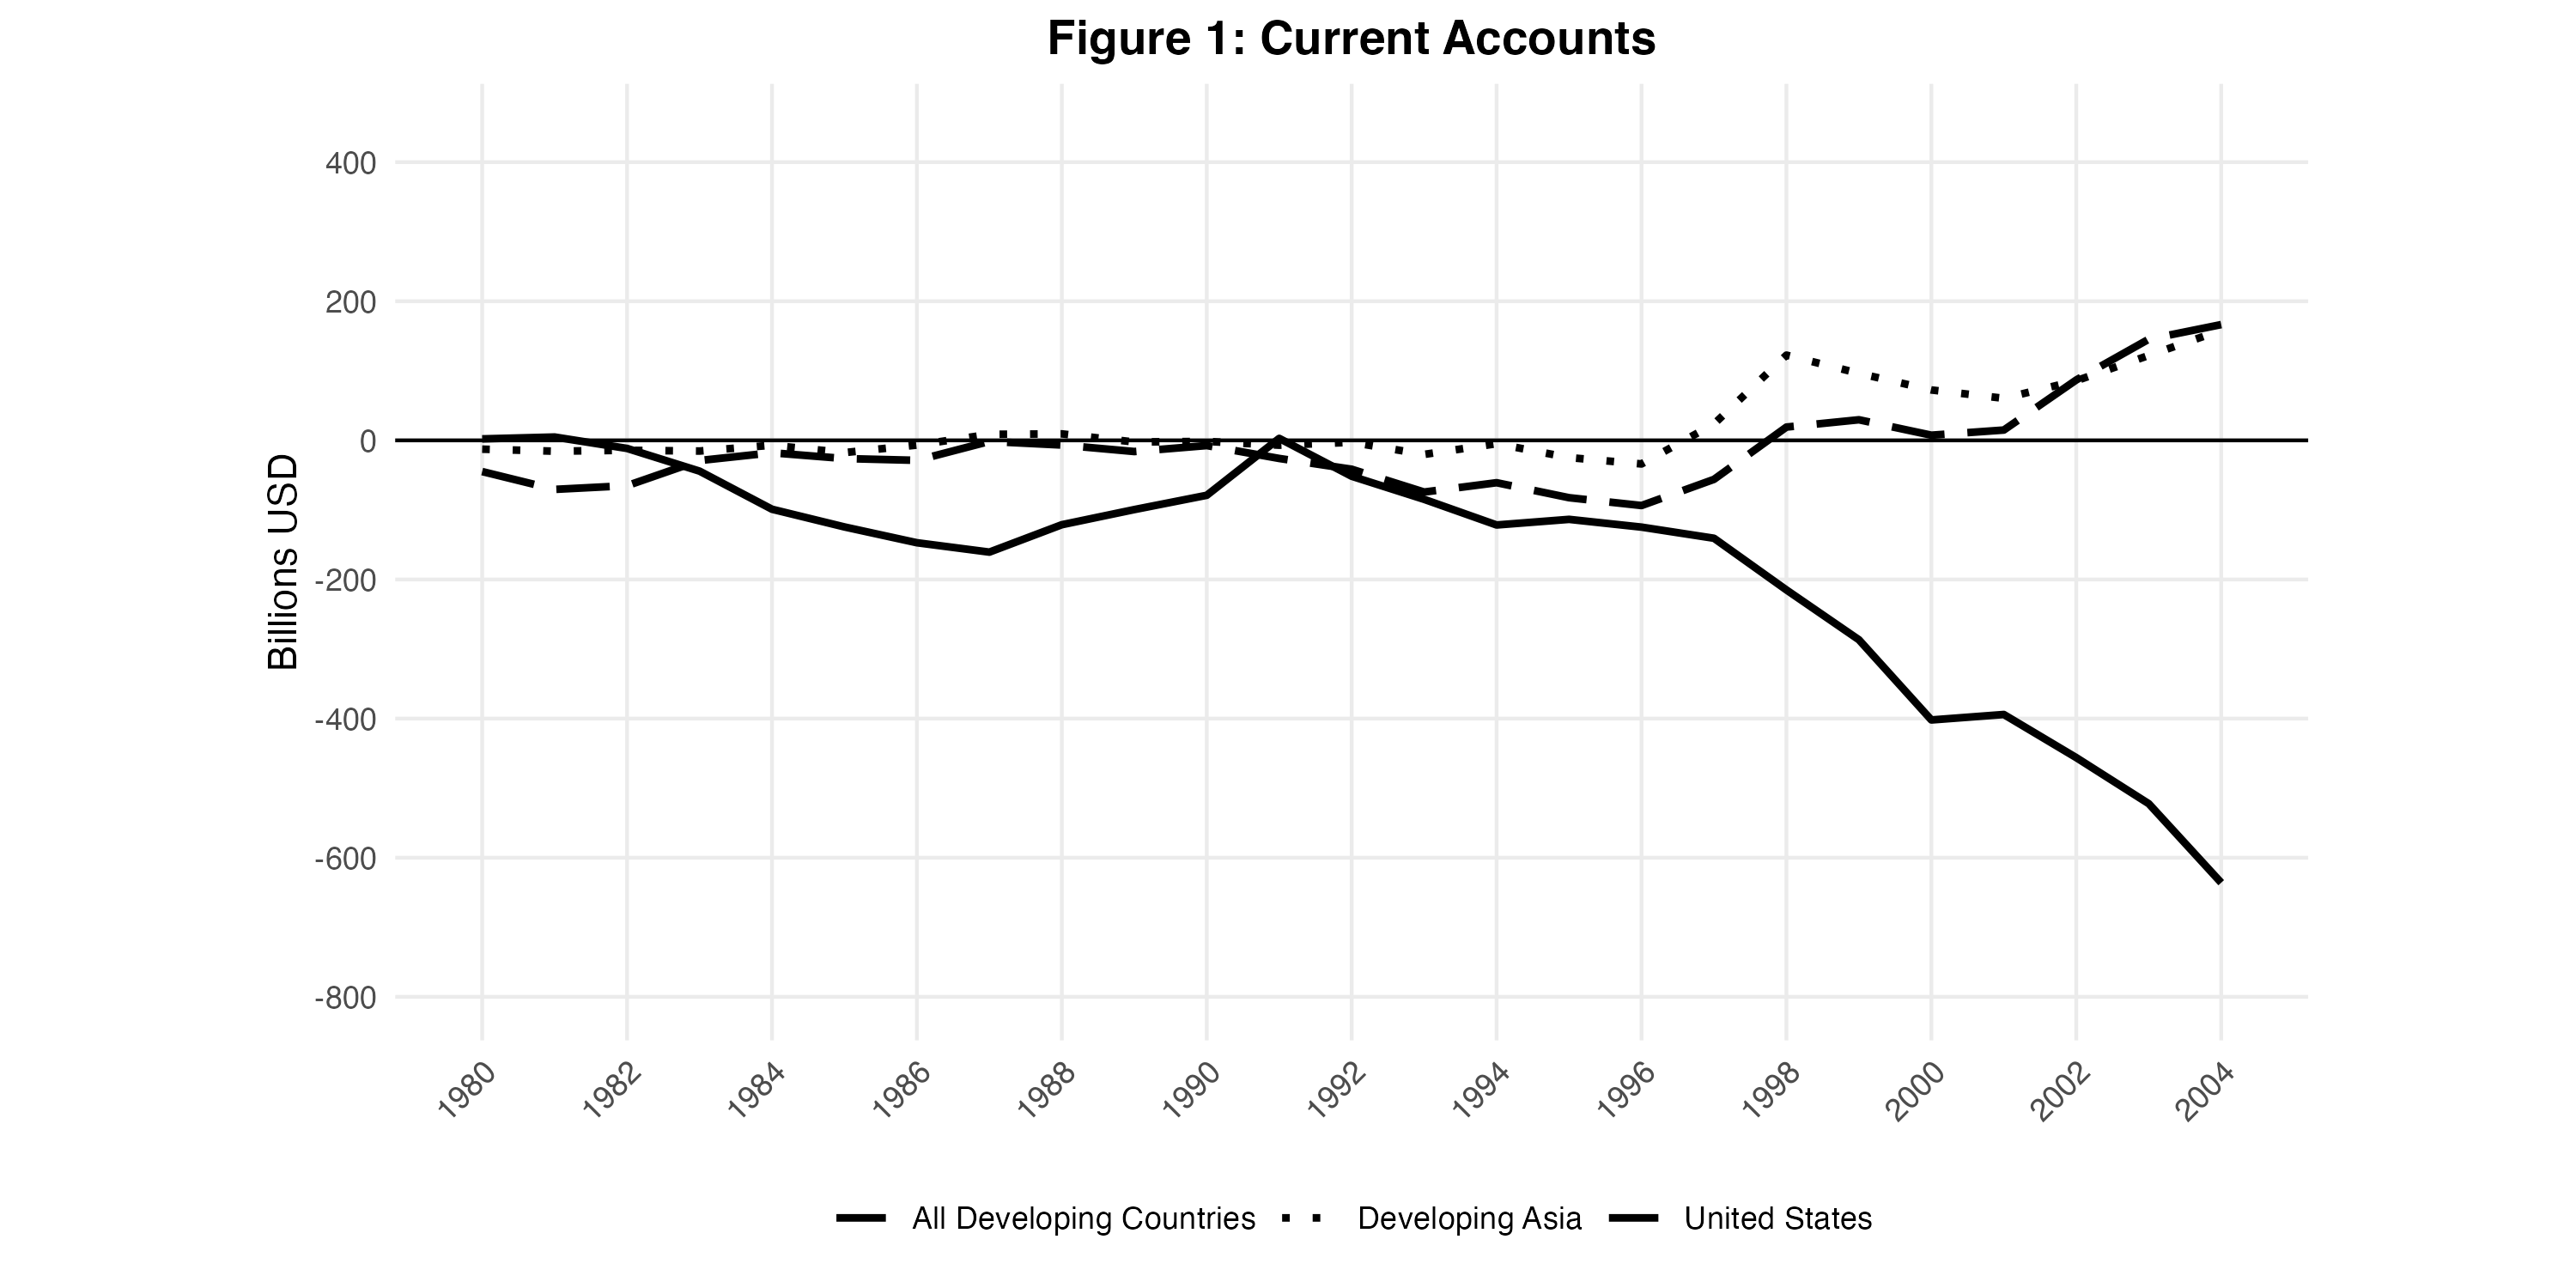
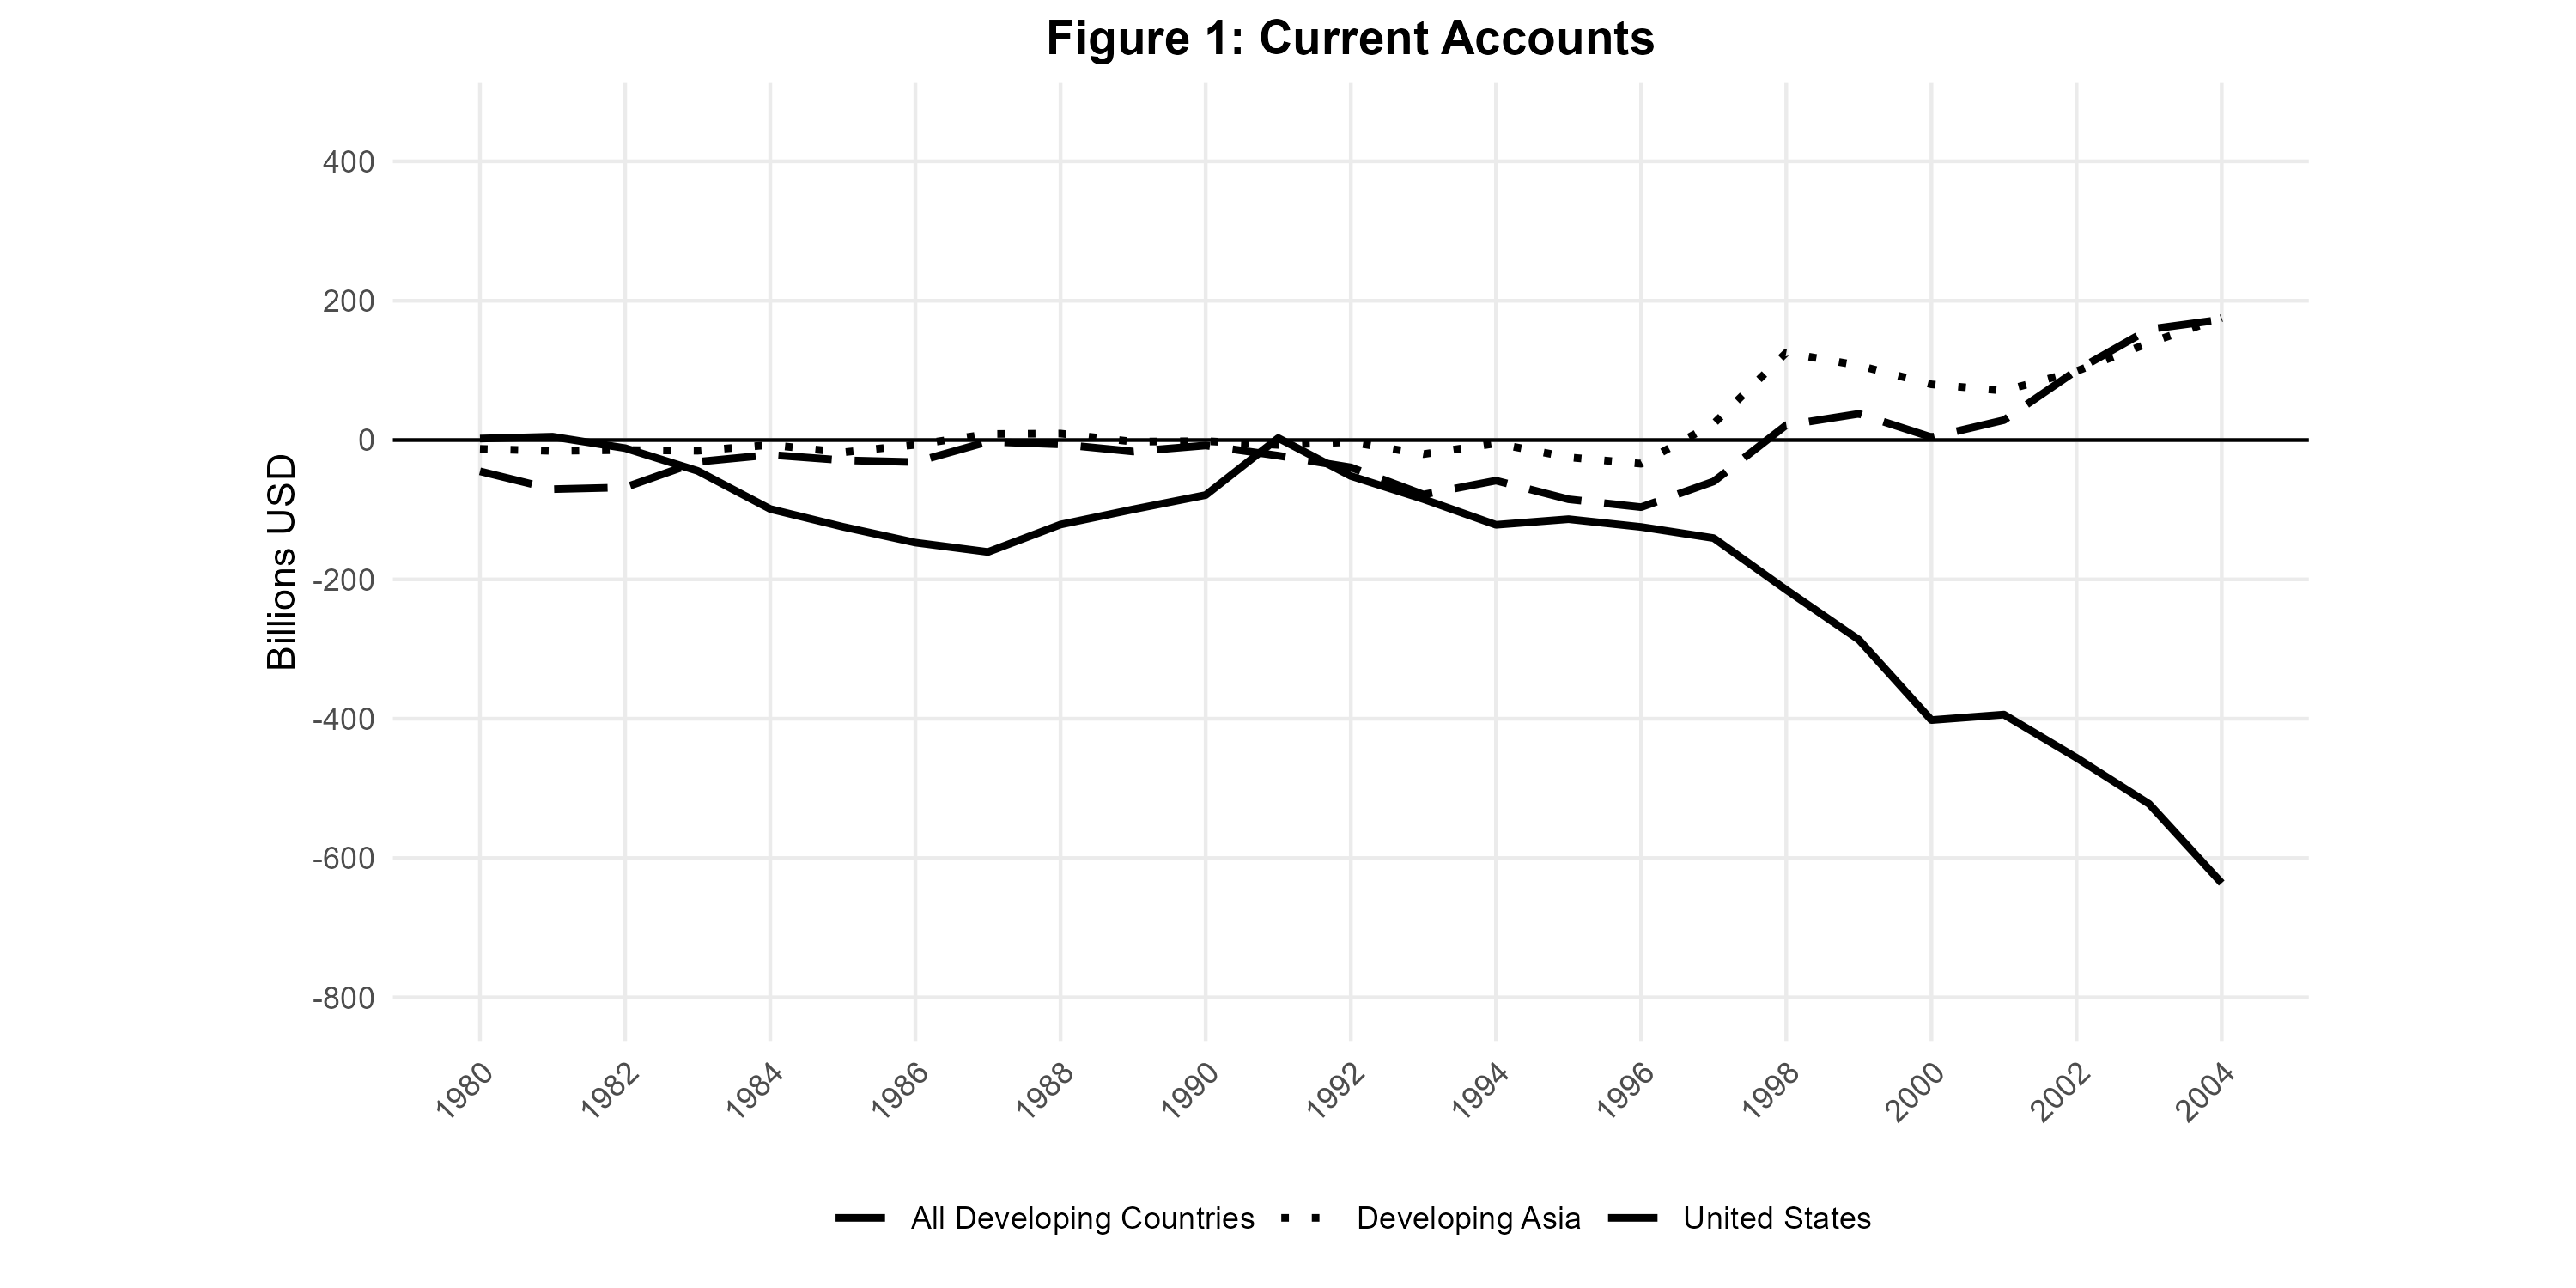
code adjustments and data cleaning

diff --git a/output/tables/table1_1.html b/output/tables/table1_1.html
@@ -1,0 +1,93 @@
+<h3>Model 1</h3><!-- html table generated in R 4.5.1 by xtable 1.8-8 package -->
+<!-- Sat May 16 22:40:30 2026 -->
+<table border=1>
+<tr> <th>  </th> <th> Estimate </th> <th> Std. Error </th> <th> t value </th> <th> Pr(&gt;|t|) </th>  </tr>
+  <tr> <td align="right"> (Intercept) </td> <td align="right"> -0.06 </td> <td align="right"> 0.03 </td> <td align="right"> -1.81 </td> <td align="right"> 0.09 </td> </tr>
+  <tr> <td align="right"> rel_income </td> <td align="right"> 0.00 </td> <td align="right"> 0.01 </td> <td align="right"> 0.02 </td> <td align="right"> 0.98 </td> </tr>
+  <tr> <td align="right"> growth_dev_avg </td> <td align="right"> -1.54 </td> <td align="right"> 0.47 </td> <td align="right"> -3.27 </td> <td align="right"> 0.01 </td> </tr>
+  <tr> <td align="right"> fiscal_balance_dev </td> <td align="right"> -199713124.55 </td> <td align="right"> 228604299.18 </td> <td align="right"> -0.87 </td> <td align="right"> 0.40 </td> </tr>
+  <tr> <td align="right"> nfa_gdp </td> <td align="right"> -0.03 </td> <td align="right"> 0.10 </td> <td align="right"> -0.30 </td> <td align="right"> 0.77 </td> </tr>
+  <tr> <td align="right"> youth_dep_dev </td> <td align="right"> -0.00 </td> <td align="right"> 0.00 </td> <td align="right"> -0.77 </td> <td align="right"> 0.46 </td> </tr>
+  <tr> <td align="right"> old_dep_dev </td> <td align="right"> -0.00 </td> <td align="right"> 0.00 </td> <td align="right"> -0.37 </td> <td align="right"> 0.72 </td> </tr>
+  <tr> <td align="right"> openness </td> <td align="right"> 0.05 </td> <td align="right"> 0.02 </td> <td align="right"> 3.29 </td> <td align="right"> 0.01 </td> </tr>
+  <tr> <td align="right"> oil_balance </td> <td align="right"> 0.84 </td> <td align="right"> 0.78 </td> <td align="right"> 1.08 </td> <td align="right"> 0.30 </td> </tr>
+  <tr> <td align="right"> factor(period_id)3 </td> <td align="right"> 0.02 </td> <td align="right"> 0.02 </td> <td align="right"> 1.36 </td> <td align="right"> 0.20 </td> </tr>
+  <tr> <td align="right"> factor(period_id)4 </td> <td align="right"> 0.02 </td> <td align="right"> 0.02 </td> <td align="right"> 1.20 </td> <td align="right"> 0.25 </td> </tr>
+   </table>
+<h3>Model 2</h3><!-- html table generated in R 4.5.1 by xtable 1.8-8 package -->
+<!-- Sat May 16 22:40:30 2026 -->
+<table border=1>
+<tr> <th>  </th> <th> Estimate </th> <th> Std. Error </th> <th> t value </th> <th> Pr(&gt;|t|) </th>  </tr>
+  <tr> <td align="right"> (Intercept) </td> <td align="right"> -0.00 </td> <td align="right"> 0.03 </td> <td align="right"> -0.01 </td> <td align="right"> 0.99 </td> </tr>
+  <tr> <td align="right"> rel_income </td> <td align="right"> -0.01 </td> <td align="right"> 0.01 </td> <td align="right"> -0.75 </td> <td align="right"> 0.47 </td> </tr>
+  <tr> <td align="right"> growth_dev_avg </td> <td align="right"> -0.19 </td> <td align="right"> 0.50 </td> <td align="right"> -0.38 </td> <td align="right"> 0.71 </td> </tr>
+  <tr> <td align="right"> fiscal_balance_dev </td> <td align="right"> 111015506.25 </td> <td align="right"> 184227625.81 </td> <td align="right"> 0.60 </td> <td align="right"> 0.56 </td> </tr>
+  <tr> <td align="right"> nfa_gdp </td> <td align="right"> 0.04 </td> <td align="right"> 0.08 </td> <td align="right"> 0.51 </td> <td align="right"> 0.62 </td> </tr>
+  <tr> <td align="right"> youth_dep_dev </td> <td align="right"> 0.00 </td> <td align="right"> 0.00 </td> <td align="right"> 2.26 </td> <td align="right"> 0.05 </td> </tr>
+  <tr> <td align="right"> old_dep_dev </td> <td align="right"> 0.00 </td> <td align="right"> 0.00 </td> <td align="right"> 2.37 </td> <td align="right"> 0.04 </td> </tr>
+  <tr> <td align="right"> openness </td> <td align="right"> -0.05 </td> <td align="right"> 0.03 </td> <td align="right"> -1.62 </td> <td align="right"> 0.14 </td> </tr>
+  <tr> <td align="right"> oil_balance </td> <td align="right"> 1.43 </td> <td align="right"> 0.60 </td> <td align="right"> 2.40 </td> <td align="right"> 0.04 </td> </tr>
+  <tr> <td align="right"> d_malaysia </td> <td align="right"> 0.16 </td> <td align="right"> 0.05 </td> <td align="right"> 3.54 </td> <td align="right"> 0.01 </td> </tr>
+  <tr> <td align="right"> d_thailand </td> <td align="right"> 0.16 </td> <td align="right"> 0.04 </td> <td align="right"> 3.70 </td> <td align="right"> 0.00 </td> </tr>
+  <tr> <td align="right"> d_usa </td> <td align="right"> -0.00 </td> <td align="right"> 0.02 </td> <td align="right"> -0.12 </td> <td align="right"> 0.90 </td> </tr>
+  <tr> <td align="right"> factor(period_id)3 </td> <td align="right"> 0.01 </td> <td align="right"> 0.01 </td> <td align="right"> 0.65 </td> <td align="right"> 0.53 </td> </tr>
+  <tr> <td align="right"> factor(period_id)4 </td> <td align="right"> 0.01 </td> <td align="right"> 0.01 </td> <td align="right"> 0.48 </td> <td align="right"> 0.64 </td> </tr>
+   </table>
+<h3>Model 3</h3><!-- html table generated in R 4.5.1 by xtable 1.8-8 package -->
+<!-- Sat May 16 22:40:30 2026 -->
+<table border=1>
+<tr> <th>  </th> <th> Estimate </th> <th> Std. Error </th> <th> t value </th> <th> Pr(&gt;|t|) </th>  </tr>
+  <tr> <td align="right"> (Intercept) </td> <td align="right"> -0.04 </td> <td align="right"> 0.04 </td> <td align="right"> -0.95 </td> <td align="right"> 0.36 </td> </tr>
+  <tr> <td align="right"> rel_income </td> <td align="right"> -0.00 </td> <td align="right"> 0.01 </td> <td align="right"> -0.35 </td> <td align="right"> 0.74 </td> </tr>
+  <tr> <td align="right"> growth_dev_avg </td> <td align="right"> -0.79 </td> <td align="right"> 0.80 </td> <td align="right"> -0.99 </td> <td align="right"> 0.34 </td> </tr>
+  <tr> <td align="right"> fiscal_balance_dev </td> <td align="right"> -249618987.74 </td> <td align="right"> 242654486.73 </td> <td align="right"> -1.03 </td> <td align="right"> 0.33 </td> </tr>
+  <tr> <td align="right"> nfa_gdp </td> <td align="right"> -0.08 </td> <td align="right"> 0.11 </td> <td align="right"> -0.75 </td> <td align="right"> 0.47 </td> </tr>
+  <tr> <td align="right"> youth_dep_dev </td> <td align="right"> -0.00 </td> <td align="right"> 0.00 </td> <td align="right"> -0.15 </td> <td align="right"> 0.88 </td> </tr>
+  <tr> <td align="right"> old_dep_dev </td> <td align="right"> 0.00 </td> <td align="right"> 0.00 </td> <td align="right"> 0.02 </td> <td align="right"> 0.98 </td> </tr>
+  <tr> <td align="right"> openness </td> <td align="right"> 0.06 </td> <td align="right"> 0.02 </td> <td align="right"> 3.42 </td> <td align="right"> 0.01 </td> </tr>
+  <tr> <td align="right"> oil_balance </td> <td align="right"> 1.04 </td> <td align="right"> 0.82 </td> <td align="right"> 1.27 </td> <td align="right"> 0.23 </td> </tr>
+  <tr> <td align="right"> fc_dummy </td> <td align="right"> -0.04 </td> <td align="right"> 0.05 </td> <td align="right"> -0.79 </td> <td align="right"> 0.45 </td> </tr>
+  <tr> <td align="right"> fc_openness </td> <td align="right"> 0.16 </td> <td align="right"> 0.14 </td> <td align="right"> 1.18 </td> <td align="right"> 0.26 </td> </tr>
+  <tr> <td align="right"> factor(period_id)3 </td> <td align="right"> 0.01 </td> <td align="right"> 0.02 </td> <td align="right"> 0.51 </td> <td align="right"> 0.62 </td> </tr>
+  <tr> <td align="right"> factor(period_id)4 </td> <td align="right"> 0.00 </td> <td align="right"> 0.02 </td> <td align="right"> 0.01 </td> <td align="right"> 0.99 </td> </tr>
+   </table>
+<h3>Model 4</h3><!-- html table generated in R 4.5.1 by xtable 1.8-8 package -->
+<!-- Sat May 16 22:40:30 2026 -->
+<table border=1>
+<tr> <th>  </th> <th> Estimate </th> <th> Std. Error </th> <th> t value </th> <th> Pr(&gt;|t|) </th>  </tr>
+  <tr> <td align="right"> (Intercept) </td> <td align="right"> -0.00 </td> <td align="right"> 0.03 </td> <td align="right"> -0.04 </td> <td align="right"> 0.97 </td> </tr>
+  <tr> <td align="right"> rel_income </td> <td align="right"> -0.01 </td> <td align="right"> 0.01 </td> <td align="right"> -0.52 </td> <td align="right"> 0.62 </td> </tr>
+  <tr> <td align="right"> growth_dev_avg </td> <td align="right"> -0.34 </td> <td align="right"> 0.63 </td> <td align="right"> -0.54 </td> <td align="right"> 0.60 </td> </tr>
+  <tr> <td align="right"> fiscal_balance_dev </td> <td align="right"> 153482971.78 </td> <td align="right"> 226473861.22 </td> <td align="right"> 0.68 </td> <td align="right"> 0.52 </td> </tr>
+  <tr> <td align="right"> nfa_gdp </td> <td align="right"> 0.06 </td> <td align="right"> 0.10 </td> <td align="right"> 0.63 </td> <td align="right"> 0.55 </td> </tr>
+  <tr> <td align="right"> youth_dep_dev </td> <td align="right"> 0.00 </td> <td align="right"> 0.00 </td> <td align="right"> 2.09 </td> <td align="right"> 0.07 </td> </tr>
+  <tr> <td align="right"> old_dep_dev </td> <td align="right"> 0.00 </td> <td align="right"> 0.00 </td> <td align="right"> 2.16 </td> <td align="right"> 0.06 </td> </tr>
+  <tr> <td align="right"> openness </td> <td align="right"> -0.06 </td> <td align="right"> 0.04 </td> <td align="right"> -1.44 </td> <td align="right"> 0.19 </td> </tr>
+  <tr> <td align="right"> oil_balance </td> <td align="right"> 1.41 </td> <td align="right"> 0.66 </td> <td align="right"> 2.14 </td> <td align="right"> 0.06 </td> </tr>
+  <tr> <td align="right"> fc_dummy </td> <td align="right"> 0.02 </td> <td align="right"> 0.04 </td> <td align="right"> 0.45 </td> <td align="right"> 0.66 </td> </tr>
+  <tr> <td align="right"> fc_openness </td> <td align="right"> -0.07 </td> <td align="right"> 0.13 </td> <td align="right"> -0.51 </td> <td align="right"> 0.62 </td> </tr>
+  <tr> <td align="right"> d_malaysia </td> <td align="right"> 0.18 </td> <td align="right"> 0.06 </td> <td align="right"> 2.87 </td> <td align="right"> 0.02 </td> </tr>
+  <tr> <td align="right"> d_thailand </td> <td align="right"> 0.17 </td> <td align="right"> 0.05 </td> <td align="right"> 3.19 </td> <td align="right"> 0.01 </td> </tr>
+  <tr> <td align="right"> d_usa </td> <td align="right"> -0.01 </td> <td align="right"> 0.03 </td> <td align="right"> -0.26 </td> <td align="right"> 0.80 </td> </tr>
+  <tr> <td align="right"> factor(period_id)3 </td> <td align="right"> 0.01 </td> <td align="right"> 0.02 </td> <td align="right"> 0.75 </td> <td align="right"> 0.47 </td> </tr>
+  <tr> <td align="right"> factor(period_id)4 </td> <td align="right"> 0.01 </td> <td align="right"> 0.02 </td> <td align="right"> 0.64 </td> <td align="right"> 0.54 </td> </tr>
+   </table>
+<h3>Model 5</h3><!-- html table generated in R 4.5.1 by xtable 1.8-8 package -->
+<!-- Sat May 16 22:40:30 2026 -->
+<table border=1>
+<tr> <th>  </th> <th> Estimate </th> <th> Std. Error </th> <th> t value </th> <th> Pr(&gt;|t|) </th>  </tr>
+  <tr> <td align="right"> (Intercept) </td> <td align="right"> -0.03 </td> <td align="right"> 0.04 </td> <td align="right"> -0.75 </td> <td align="right"> 0.47 </td> </tr>
+  <tr> <td align="right"> rel_income </td> <td align="right"> -0.01 </td> <td align="right"> 0.02 </td> <td align="right"> -0.44 </td> <td align="right"> 0.67 </td> </tr>
+  <tr> <td align="right"> growth_dev_avg </td> <td align="right"> -0.76 </td> <td align="right"> 0.83 </td> <td align="right"> -0.92 </td> <td align="right"> 0.38 </td> </tr>
+  <tr> <td align="right"> fiscal_balance_dev </td> <td align="right"> -258818307.54 </td> <td align="right"> 254728597.83 </td> <td align="right"> -1.02 </td> <td align="right"> 0.33 </td> </tr>
+  <tr> <td align="right"> nfa_gdp </td> <td align="right"> -0.08 </td> <td align="right"> 0.11 </td> <td align="right"> -0.74 </td> <td align="right"> 0.48 </td> </tr>
+  <tr> <td align="right"> youth_dep_dev </td> <td align="right"> -0.00 </td> <td align="right"> 0.00 </td> <td align="right"> -0.14 </td> <td align="right"> 0.89 </td> </tr>
+  <tr> <td align="right"> old_dep_dev </td> <td align="right"> 0.00 </td> <td align="right"> 0.00 </td> <td align="right"> 0.09 </td> <td align="right"> 0.93 </td> </tr>
+  <tr> <td align="right"> openness </td> <td align="right"> 0.06 </td> <td align="right"> 0.02 </td> <td align="right"> 3.28 </td> <td align="right"> 0.01 </td> </tr>
+  <tr> <td align="right"> oil_balance </td> <td align="right"> 1.11 </td> <td align="right"> 0.88 </td> <td align="right"> 1.26 </td> <td align="right"> 0.24 </td> </tr>
+  <tr> <td align="right"> fc_dummy </td> <td align="right"> -0.04 </td> <td align="right"> 0.05 </td> <td align="right"> -0.77 </td> <td align="right"> 0.46 </td> </tr>
+  <tr> <td align="right"> fc_openness </td> <td align="right"> 0.17 </td> <td align="right"> 0.15 </td> <td align="right"> 1.17 </td> <td align="right"> 0.27 </td> </tr>
+  <tr> <td align="right"> d_usa </td> <td align="right"> 0.01 </td> <td align="right"> 0.03 </td> <td align="right"> 0.33 </td> <td align="right"> 0.75 </td> </tr>
+  <tr> <td align="right"> factor(period_id)3 </td> <td align="right"> 0.01 </td> <td align="right"> 0.02 </td> <td align="right"> 0.47 </td> <td align="right"> 0.65 </td> </tr>
+  <tr> <td align="right"> factor(period_id)4 </td> <td align="right"> -0.00 </td> <td align="right"> 0.03 </td> <td align="right"> -0.12 </td> <td align="right"> 0.91 </td> </tr>
+   </table>

diff --git a/output/tables/table1.html b/output/tables/table1.html
@@ -1,5 +1,5 @@
-<h3>Model 1</h3><!-- html table generated in R 4.2.1 by xtable 1.8-4 package -->
-<!-- Fri May 15 14:12:30 2026 -->
+<h3>Model 1</h3><!-- html table generated in R 4.5.1 by xtable 1.8-8 package -->
+<!-- Sat May 16 19:34:26 2026 -->
 <table border=1>
 <tr> <th>  </th> <th> Estimate </th> <th> Std. Error </th> <th> t-value </th> <th> Pr(&gt;|t|) </th>  </tr>
   <tr> <td align="right"> rel_income </td> <td align="right"> -0.00 </td> <td align="right"> 0.01 </td> <td align="right"> -0.47 </td> <td align="right"> 0.65 </td> </tr>
@@ -11,8 +11,8 @@
   <tr> <td align="right"> openness </td> <td align="right"> 0.06 </td> <td align="right"> 0.01 </td> <td align="right"> 7.89 </td> <td align="right"> 0.00 </td> </tr>
   <tr> <td align="right"> oil_balance </td> <td align="right"> 0.66 </td> <td align="right"> 0.56 </td> <td align="right"> 1.18 </td> <td align="right"> 0.25 </td> </tr>
    </table>
-<h3>Model 2</h3><!-- html table generated in R 4.2.1 by xtable 1.8-4 package -->
-<!-- Fri May 15 14:12:30 2026 -->
+<h3>Model 2</h3><!-- html table generated in R 4.5.1 by xtable 1.8-8 package -->
+<!-- Sat May 16 19:34:26 2026 -->
 <table border=1>
 <tr> <th>  </th> <th> Estimate </th> <th> Std. Error </th> <th> t-value </th> <th> Pr(&gt;|t|) </th>  </tr>
   <tr> <td align="right"> rel_income </td> <td align="right"> 0.00 </td> <td align="right"> 0.01 </td> <td align="right"> 0.19 </td> <td align="right"> 0.85 </td> </tr>
@@ -27,24 +27,24 @@
   <tr> <td align="right"> d_thailand </td> <td align="right"> 0.05 </td> <td align="right"> 0.03 </td> <td align="right"> 1.37 </td> <td align="right"> 0.19 </td> </tr>
   <tr> <td align="right"> d_usa </td> <td align="right"> 0.01 </td> <td align="right"> 0.03 </td> <td align="right"> 0.33 </td> <td align="right"> 0.75 </td> </tr>
    </table>
-<h3>Model 3</h3><!-- html table generated in R 4.2.1 by xtable 1.8-4 package -->
-<!-- Fri May 15 14:12:30 2026 -->
+<h3>Model 3</h3><!-- html table generated in R 4.5.1 by xtable 1.8-8 package -->
+<!-- Sat May 16 19:34:26 2026 -->
 <table border=1>
 <tr> <th>  </th> <th> Estimate </th> <th> Std. Error </th> <th> t-value </th> <th> Pr(&gt;|t|) </th>  </tr>
   <tr> <td align="right"> rel_income </td> <td align="right"> 0.01 </td> <td align="right"> Inf </td> <td align="right"> 0.00 </td> <td align="right">  </td> </tr>
   <tr> <td align="right"> growth_dev_avg </td> <td align="right"> -13.24 </td> <td align="right"> Inf </td> <td align="right"> -0.00 </td> <td align="right">  </td> </tr>
   <tr> <td align="right"> fiscal_balance_dev </td> <td align="right"> -0.01 </td> <td align="right"> Inf </td> <td align="right"> -0.00 </td> <td align="right">  </td> </tr>
    </table>
-<h3>Model 4</h3><!-- html table generated in R 4.2.1 by xtable 1.8-4 package -->
-<!-- Fri May 15 14:12:30 2026 -->
+<h3>Model 4</h3><!-- html table generated in R 4.5.1 by xtable 1.8-8 package -->
+<!-- Sat May 16 19:34:26 2026 -->
 <table border=1>
 <tr> <th>  </th> <th> Estimate </th> <th> Std. Error </th> <th> t-value </th> <th> Pr(&gt;|t|) </th>  </tr>
   <tr> <td align="right"> rel_income </td> <td align="right"> 0.01 </td> <td align="right"> Inf </td> <td align="right"> 0.00 </td> <td align="right">  </td> </tr>
   <tr> <td align="right"> growth_dev_avg </td> <td align="right"> -13.24 </td> <td align="right"> Inf </td> <td align="right"> -0.00 </td> <td align="right">  </td> </tr>
   <tr> <td align="right"> fiscal_balance_dev </td> <td align="right"> -0.01 </td> <td align="right"> Inf </td> <td align="right"> -0.00 </td> <td align="right">  </td> </tr>
    </table>
-<h3>Model 5</h3><!-- html table generated in R 4.2.1 by xtable 1.8-4 package -->
-<!-- Fri May 15 14:12:30 2026 -->
+<h3>Model 5</h3><!-- html table generated in R 4.5.1 by xtable 1.8-8 package -->
+<!-- Sat May 16 19:34:26 2026 -->
 <table border=1>
 <tr> <th>  </th> <th> Estimate </th> <th> Std. Error </th> <th> t-value </th> <th> Pr(&gt;|t|) </th>  </tr>
   <tr> <td align="right"> rel_income </td> <td align="right"> 0.01 </td> <td align="right"> Inf </td> <td align="right"> 0.00 </td> <td align="right">  </td> </tr>